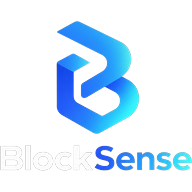
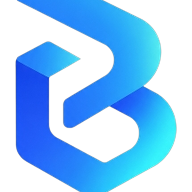
Fix the duplicated wordmark and make the Netlify base directory irrelevant
Two deployment-facing bugs, both of which were mine.

The logo

I could not see the image, so I guessed it was a wordmark and added a
`showWordmark` prop to switch the duplication off. That would not have been a
fix anyway. Measuring the artwork settles it: eleven connected components, one
holding 68% of the ink, and beneath it a row of exactly ten glyphs on a common
baseline, where capitals and ascenders are 53px tall and x-height letters 41px.
That is an emblem above a spelled-out name, in a 419×327 vertical lockup.

So the problem was worse than duplication. Scaled into a 28px header, each of
those ten letters is under three pixels wide — illegible. Rendering the
artwork next to styled text showed the name twice, and the first copy was
unreadable.

The emblem is now cut out of the lockup by connected-component analysis, which
does not need to know what the wordmark says, and the header uses that mark
with the name as real text beside it. Favicons and app icons are generated from
the mark too: ten letterforms inside 16 pixels is a grey smear, and ink
coverage went from a thin line to 48% of the tile. The social card draws the
name in text and now uses the mark as well, instead of the lockup that already
contained it.

The Netlify base directory

Netlify reads `netlify.toml` only from the site's base directory. The root file
is correct for base `/`, but a site already configured with `apps/web` as its
[…]

diff --git a/tests/netlifyConfig.test.ts b/tests/netlifyConfig.test.ts
@@ -1,0 +1,106 @@
+/**
+ * The two Netlify configurations must agree.
+ *
+ * Netlify reads `netlify.toml` from the site's base directory, so a site
+ * pointed at `apps/web` never sees the root file. Both exist so the base
+ * directory is not something you have to get right, which means they can drift
+ * apart — and a drifted redirect order or publish path is a broken deploy that
+ * only shows up after a build.
+ *
+ * These tests are the guard rail.
+ */
+
+import { readFileSync } from 'node:fs';
+import { resolve } from 'node:path';
+import { describe, expect, it } from 'vitest';
+
+const repo = resolve(import.meta.dirname, '..');
+const root = readFileSync(resolve(repo, 'netlify.toml'), 'utf8');
+const web = readFileSync(resolve(repo, 'apps/web/netlify.toml'), 'utf8');
+
+interface Redirect {
+  from: string;
+  to: string;
+  status: number;
+  force?: boolean;
+}
+
+/** Minimal reader for the `[[redirects]]` blocks, which is all we compare. */
+function redirects(toml: string): Redirect[] {
+  const blocks = toml.split('[[redirects]]').slice(1);
+  return blocks.map((block) => {
+    const get = (key: string) => {
+      const match = block.match(new RegExp(`${key}\\s*=\\s*"([^"]*)"`));
+      return match?.[1];
+    };
+    const status = Number(block.match(/status\s*=\s*(\d+)/)?.[1] ?? 0);
+    const force = /force\s*=\s*true/.test(block);
+    return { from: get('from') ?? '', to: get('to') ?? '', status, ...(force ? { force: true } : {}) };
+  });
+}
+
+describe('netlify.toml, root variant', () => {
+  it('publishes the web build from the repository root', () => {
+    expect(root).toMatch(/publish\s*=\s*"apps\/web\/dist"/);
+  });
+
+  it('builds the API as well as the web app', () => {
+    // The function imports the prebuilt bundle, so building only the frontend
+    // leaves apps/api/dist missing and the function fails at import.
+    expect(root).toMatch(/pnpm build/);
+  });
+
+  it('installs before building', () => {
+    expect(root.indexOf('pnpm install')).toBeLessThan(root.indexOf('pnpm build'));
+  });
+
+  it('points at the functions directory', () => {
+    expect(root).toMatch(/functions\s*=\s*"netlify\/functions"/);
+  });
+
+  it('pins the Node version the project declares', () => {
+    expect(root).toMatch(/NODE_VERSION\s*=\s*"20"/);
+  });
+});
+
+describe('netlify.toml, apps/web variant', () => {
+  it('publishes relative to its own base directory', () => {
+    expect(web).toMatch(/publish\s*=\s*"dist"/);
+  });
+
+  it('installs and builds from the workspace root', () => {
+    // Installing from apps/web would fetch only that package's dependencies.
+    expect(web).toMatch(/cd \.\.\/\.\./);
+  });
+
+  it('reaches the functions directory from two levels down', () => {
+    expect(web).toMatch(/functions\s*=\s*"\.\.\/\.\.\/netlify\/functions"/);
+  });
+});
+
+describe('the two configurations agree', () => {
+  it('declares identical redirects', () => {
+    expect(redirects(web)).toEqual(redirects(root));
+  });
+
+  it('serves the API before the SPA catch-all', () => {
+    // Order is load-bearing. The catch-all would otherwise answer /api/v1/health
+    // with index.html.
+    const rules = redirects(root);
+    const api = rules.findIndex((r) => r.from === '/api/*');
+    const spa = rules.findIndex((r) => r.from === '/*');
+    expect(api).toBeGreaterThanOrEqual(0);
+    expect(spa).toBeGreaterThan(api);
+  });
+
+  it('forces the API rewrite so the static handler cannot claim it', () => {
+    const api = redirects(root).find((r) => r.from === '/api/*');
+    expect(api?.force).toBe(true);
+    expect(api?.to).toBe('/.netlify/functions/api/:splat');
+  });
+
+  it('pins the same Node version in both', () => {
+    const version = (toml: string) => toml.match(/NODE_VERSION\s*=\s*"([^"]*)"/)?.[1];
+    expect(version(web)).toBe(version(root));
+  });
+});

diff --git a/packages/ui/src/BrandLogo.tsx b/packages/ui/src/BrandLogo.tsx
@@ -1,43 +1,44 @@
 import { cn } from '@blocksense/shared';
 
 /**
- * The BlockSense brand mark.
+ * The BlockSense brand.
  *
- * The artwork is a raster file, not an inline SVG, so it comes from
- * `/public` and is referenced by URL. It is served as a square canvas at every
- * size: the lockup is wider than it is tall, and stretching it to a square
- * would distort the letterforms.
+ * The supplied artwork is a *vertical* lockup: an emblem above a row of ten
+ * letterforms. Two consequences, both of which used to be wrong here.
+ *
+ * The raster wordmark is illegible at interface sizes — scaled into a 28px
+ * header, each of the ten letters is under three pixels wide. So the header
+ * uses the emblem on its own (`logo-mark.png`, cut from the lockup by
+ * `pnpm brand:assets`) and renders the name as real text beside it, which stays
+ * selectable, themeable, and crisp at any size.
+ *
+ * The full lockup is still the right thing for a social card, where it is drawn
+ * 380px wide and the wordmark is genuinely legible.
  */
 
 interface BrandLogoProps {
   variant?: 'full' | 'mark';
-  /** Height of the mark in pixels. The width follows the artwork's aspect. */
+  /** Height of the emblem in pixels. */
   size?: number;
   showTagline?: boolean;
-  /**
-   * Set false if the artwork already contains the wordmark, so it is not
-   * rendered twice.
-   */
-  showWordmark?: boolean;
   className?: string;
 }
 
-/** Intrinsic aspect of logo.png, kept in sync by scripts/build-brand-assets. */
-const ARTWORK_ASPECT = 419 / 327;
+/**
+ * Intrinsic aspect of the cut-out emblem, 215×263.
+ *
+ * Written as a literal rather than a comment so a change to the artwork shows up
+ * as a distorted logo in review instead of a silently wrong ratio.
+ */
+const MARK_ASPECT = 215 / 263;
 
-export function BrandLogo({
-  variant = 'full',
-  size = 28,
-  showTagline = false,
-  showWordmark = true,
-  className
-}: BrandLogoProps) {
+export function BrandLogo({ variant = 'full', size = 28, showTagline = false, className }: BrandLogoProps) {
   const height = size;
-  const width = Math.round(size * ARTWORK_ASPECT);
+  const width = Math.round(size * MARK_ASPECT);
 
   const mark = (
     <img
-      src="/logo.png"
+      src="/logo-mark.png"
       alt=""
       aria-hidden="true"
       width={width}
@@ -55,22 +56,16 @@ export function BrandLogo({
     );
   }
 
-  // With the artwork being a wide lockup, the text beside it is only correct
-  // when the artwork is a mark on its own. `showWordmark` is the escape hatch.
-  const withText = showWordmark ? (
-    <span className="flex flex-col leading-none">
-      <span className="font-semibold tracking-tight" style={{ fontSize: Math.round(size * 0.64) }}>
-        <span className="text-brand-ink">Block</span>
-        <span className="text-primary">Sense</span>
-      </span>
-      {showTagline && <span className="mt-1.5 text-xs text-muted">See the transaction. Understand the behavior.</span>}
-    </span>
-  ) : null;
-
   return (
     <span className={cn('inline-flex items-center gap-2.5', className)}>
       {mark}
-      {withText}
+      <span className="flex flex-col leading-none">
+        <span className="font-semibold tracking-tight" style={{ fontSize: Math.round(size * 0.64) }}>
+          <span className="text-brand-ink">Block</span>
+          <span className="text-primary">Sense</span>
+        </span>
+        {showTagline && <span className="mt-1.5 text-xs text-muted">See the transaction. Understand the behavior.</span>}
+      </span>
     </span>
   );
 }

diff --git a/scripts/build-brand-assets.py b/scripts/build-brand-assets.py
@@ -72,6 +72,65 @@ def fit(image: Image.Image, width: int) -> Image.Image:
     return image.resize((width, height), Image.LANCZOS)
 
 
+def emblem(logo: Image.Image) -> Image.Image:
+    """Cut the emblem out of a lockup, discarding the letterforms.
+
+    The emblem is the largest connected blob: in a lockup the mark dwarfs the
+    individual letters, so size is a reliable way to tell them apart without
+    needing to know what the wordmark says.
+    """
+    alpha = logo.getchannel("A").point(lambda v: 255 if v > 60 else 0)
+    labels, boxes = _components(alpha)
+    if not boxes:
+        return logo
+
+    biggest = max(range(len(boxes)), key=lambda i: boxes[i][4])
+    x0, y0, x1, y1 = boxes[biggest][:4]
+    # A little breathing room, since the mark should not sit flush against
+    # whatever it is next to.
+    pad = max(x1 - x0, y1 - y0) // 14
+    box = (
+        max(0, x0 - pad),
+        max(0, y0 - pad),
+        min(logo.width, x1 + 1 + pad),
+        min(logo.height, y1 + 1 + pad),
+    )
+    return logo.crop(box)
+
+
+def _components(mask: Image.Image):
+    """Label 8-connected regions, returning (count, boxes) with pixel areas."""
+    import numpy as np
+    from collections import deque
+
+    grid = np.array(mask) > 0
+    height, width = grid.shape
+    seen = np.zeros_like(grid, dtype=bool)
+    boxes = []
+    for y in range(height):
+        for x in range(width):
+            if not grid[y, x] or seen[y, x]:
+                continue
+            queue = deque([(y, x)])
+            seen[y, x] = True
+            area = 0
+            min_y = max_y = y
+            min_x = max_x = x
+            while queue:
+                cy, cx = queue.popleft()
+                area += 1
+                min_y, max_y = min(min_y, cy), max(max_y, cy)
+                min_x, max_x = min(min_x, cx), max(max_x, cx)
+                for dy in (-1, 0, 1):
+                    for dx in (-1, 0, 1):
+                        ny, nx = cy + dy, cx + dx
+                        if 0 <= ny < height and 0 <= nx < width and grid[ny, nx] and not seen[ny, nx]:
+                            seen[ny, nx] = True
+                            queue.append((ny, nx))
+            boxes.append((min_x, min_y, max_x, max_y, area))
+    return len(boxes), boxes
+
+
 def square(image: Image.Image, size: int) -> Image.Image:
     """Centre the artwork on a transparent square canvas of ``size``."""
     canvas = Image.new("RGBA", (size, size), (0, 0, 0, 0))
@@ -80,7 +139,7 @@ def square(image: Image.Image, size: int) -> Image.Image:
     return canvas
 
 
-def social_card(logo: Image.Image) -> Image.Image:
+def social_card(mark: Image.Image) -> Image.Image:
     width, height = OG_SIZE
     card = Image.new("RGBA", OG_SIZE, OG_BG + (255,))
 
@@ -98,7 +157,12 @@ def social_card(logo: Image.Image) -> Image.Image:
     card = Image.alpha_composite(card, wash)
 
     logo_width = 380
-    card.alpha_composite(fit(logo, logo_width), ((width - logo_width) // 2, 92))
+    # The emblem, not the lockup. The card already spells the name out in text,
+    # and the lockup contains it too, so using the full artwork showed the name
+    # twice.
+    emblem_height = 150
+    mark_img = fit(mark, round(emblem_height * mark.width / mark.height))
+    card.alpha_composite(mark_img, ((width - mark_img.width) // 2, 96))
 
     draw = ImageDraw.Draw(card)
     for text, y, font, colour in (
@@ -137,8 +201,18 @@ def main() -> None:
     # weight to the deploy.
     write("logo.png", logo)
 
+    # The supplied artwork is a *vertical* lockup: an emblem above a row of ten
+    # letterforms. Scaled to a 28px header that puts each letter under three
+    # pixels wide, so the raster wordmark is illegible at any UI size — and
+    # rendering the artwork next to styled text would also show the name twice.
+    #
+    # So the emblem is cut out and used as the mark, and the wordmark stays
+    # real, selectable, themeable text. Only the emblem is a raster.
+    mark = emblem(logo)
+    write("logo-mark.png", mark)
+
     for size in (16, 32, 48, 64, 180, 192, 512):
-        raster = square(logo, size)
+        raster = square(mark, size)
         name = {180: "apple-touch-icon.png", 192: "icon-192.png", 512: "icon-512.png"}.get(
             size, f"favicon-{size}x{size}.png"
         )
@@ -152,14 +226,14 @@ def main() -> None:
 
     # One social card: Open Graph and Twitter card tags both point at it, so a
     # second copy would be a second copy of the same bytes.
-    write("og-image.png", social_card(logo))
+    write("og-image.png", social_card(mark))
 
     for name in written:
         print(f"  {name}")
 
     print(
-        f"\nUpdate ARTWORK_ASPECT in packages/ui/src/BrandLogo.tsx "
-        f"if it is not already {logo.width}/{logo.height}."
+        f"\nUpdate MARK_ASPECT in packages/ui/src/BrandLogo.tsx "
+        f"if it is not already {mark.width}/{mark.height}."
     )
 
 

diff --git a/docs/deployment.md b/docs/deployment.md
@@ -22,13 +22,28 @@ matters if you host the frontend somewhere else.
 
 ## 1. Connect the repository
 
-Point Netlify at this repository. With `netlify.toml` at the repository root,
-the build, publish directory, function, and redirects are all picked up
-automatically — no settings to enter by hand.
+Point Netlify at this repository. The build, publish directory, function, and
+redirects are picked up automatically — no settings to enter by hand.
 
+- **Base directory: `/`** (the repository root). This is the recommended setting
+  and the one the root `netlify.toml` is written for.
 - Build command: `pnpm install --frozen-lockfile && pnpm build`
 - Publish directory: `apps/web/dist`
 - Node: 20
+
+### If your site already has its base directory set to `apps/web`
+
+Netlify only reads `netlify.toml` from the base directory, so a site pointed at
+`apps/web` ignores the root file completely and falls back to whatever is in the
+dashboard. That usually means no build command and no function, which looks like
+a build that randomly fails.
+
+There is a configuration for that case at `apps/web/netlify.toml`, written
+relative to its own directory, so a site with that base directory deploys
+correctly as-is. `tests/netlifyConfig.test.ts` asserts the two files declare the
+same redirects in the same order, so they cannot drift.
+
+Either way, setting the base directory back to `/` is the cleaner fix.
 
 The build command covers the API as well as the web app, because the function
 imports the already-built bundle. Building only the frontend would leave
